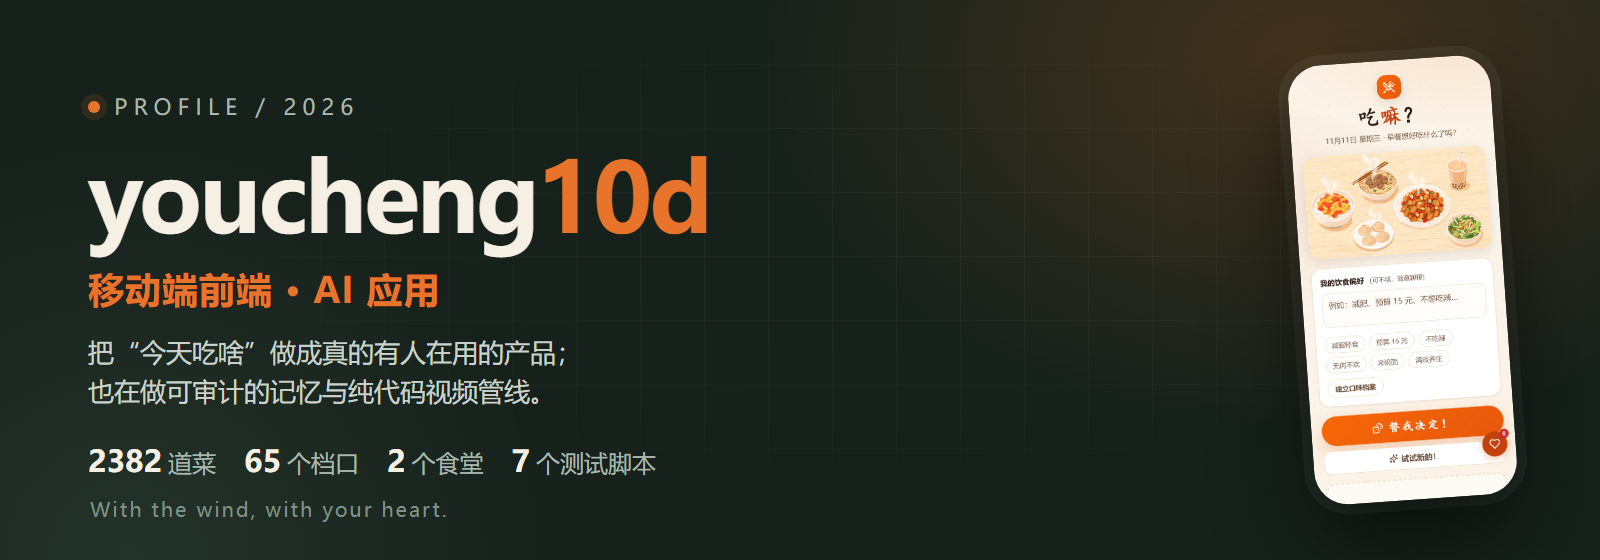
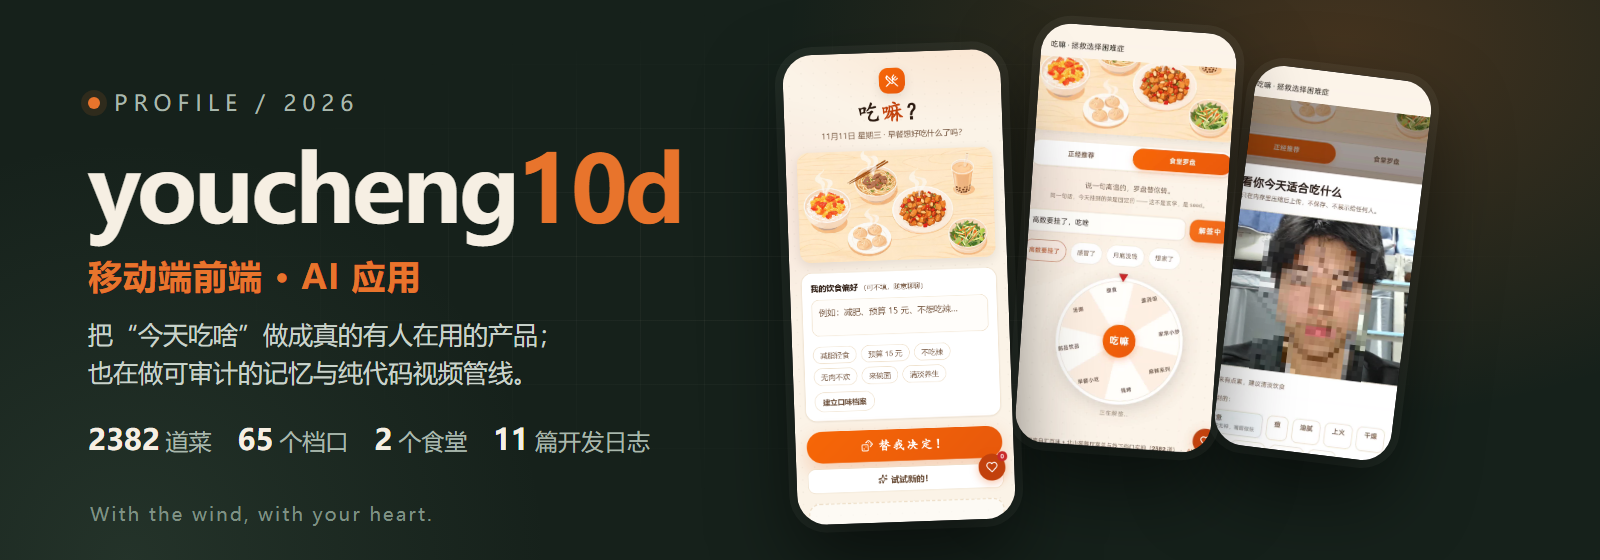
profile: add wheel and photo shots, fix blog count to 11

diff --git a/README.md b/README.md
@@ -23,7 +23,7 @@
 
 - 在线体验：[youcheng10d.github.io/what-to-eat](https://youcheng10d.github.io/what-to-eat/)（手机打开效果最佳）
 - 仓库：[youcheng10d/what-to-eat](https://github.com/youcheng10d/what-to-eat)
-- 开发日志（8 篇）：[01](https://github.com/youcheng10d/what-to-eat/blob/main/docs/blog/blog-01-v0.1.md)、[02](https://github.com/youcheng10d/what-to-eat/blob/main/docs/blog/blog-02-v1.0.md)、[03](https://github.com/youcheng10d/what-to-eat/blob/main/docs/blog/blog-03-v1.2.md)、[04](https://github.com/youcheng10d/what-to-eat/blob/main/docs/blog/blog-04-v2.0.md)、[05](https://github.com/youcheng10d/what-to-eat/blob/main/docs/blog/blog-05-v2.1.md)、[06](https://github.com/youcheng10d/what-to-eat/blob/main/docs/blog/blog-06-v2.1.2.md)、[07](https://github.com/youcheng10d/what-to-eat/blob/main/docs/blog/blog-07-wenli.md)、[08](https://github.com/youcheng10d/what-to-eat/blob/main/docs/blog/blog-08-v2.3.2.md)
+- 开发日志（11 篇）：[01](https://github.com/youcheng10d/what-to-eat/blob/main/docs/blog/blog-01-v0.1.md)、[02](https://github.com/youcheng10d/what-to-eat/blob/main/docs/blog/blog-02-v1.0.md)、[03](https://github.com/youcheng10d/what-to-eat/blob/main/docs/blog/blog-03-v1.2.md)、[04](https://github.com/youcheng10d/what-to-eat/blob/main/docs/blog/blog-04-v2.0.md)、[05](https://github.com/youcheng10d/what-to-eat/blob/main/docs/blog/blog-05-v2.1.md)、[06](https://github.com/youcheng10d/what-to-eat/blob/main/docs/blog/blog-06-v2.1.2.md)、[07](https://github.com/youcheng10d/what-to-eat/blob/main/docs/blog/blog-07-wenli.md)、[08](https://github.com/youcheng10d/what-to-eat/blob/main/docs/blog/blog-08-v2.3.2.md)、[09](https://github.com/youcheng10d/what-to-eat/blob/main/docs/blog/blog-09-v2.4.0.md)、[10](https://github.com/youcheng10d/what-to-eat/blob/main/docs/blog/blog-10-v2.4.1.md)、[11](https://github.com/youcheng10d/what-to-eat/blob/main/docs/blog/blog-11-v2.5.0.md)
 
 ### 可审计的记忆系统
 
